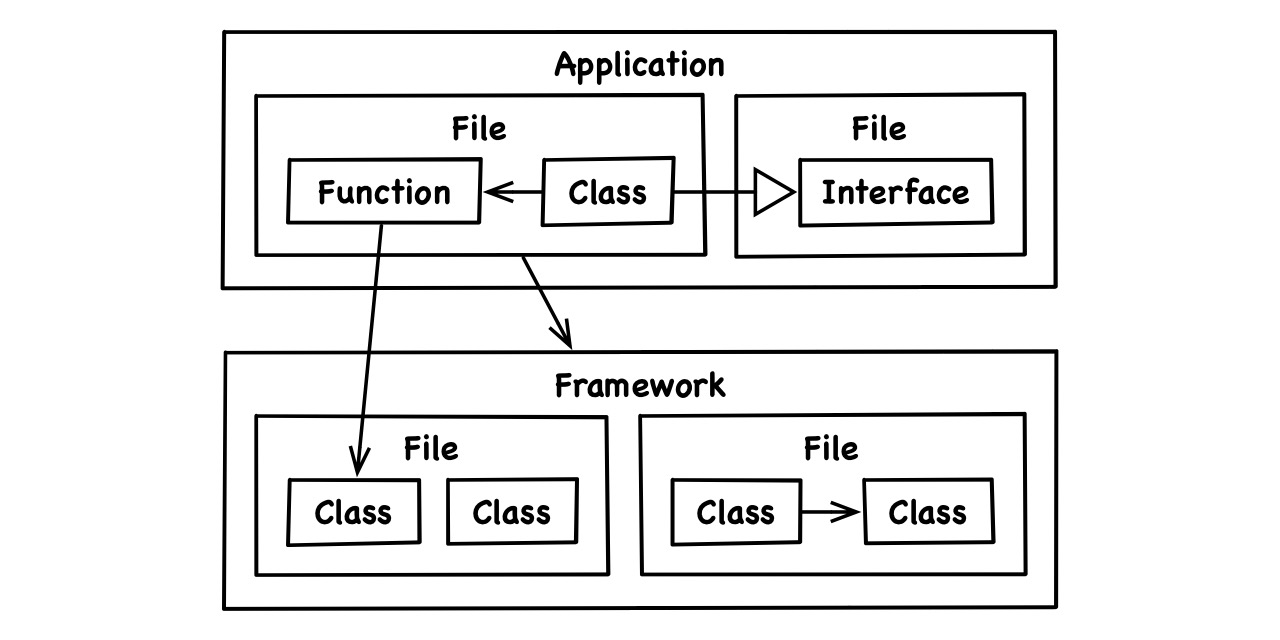
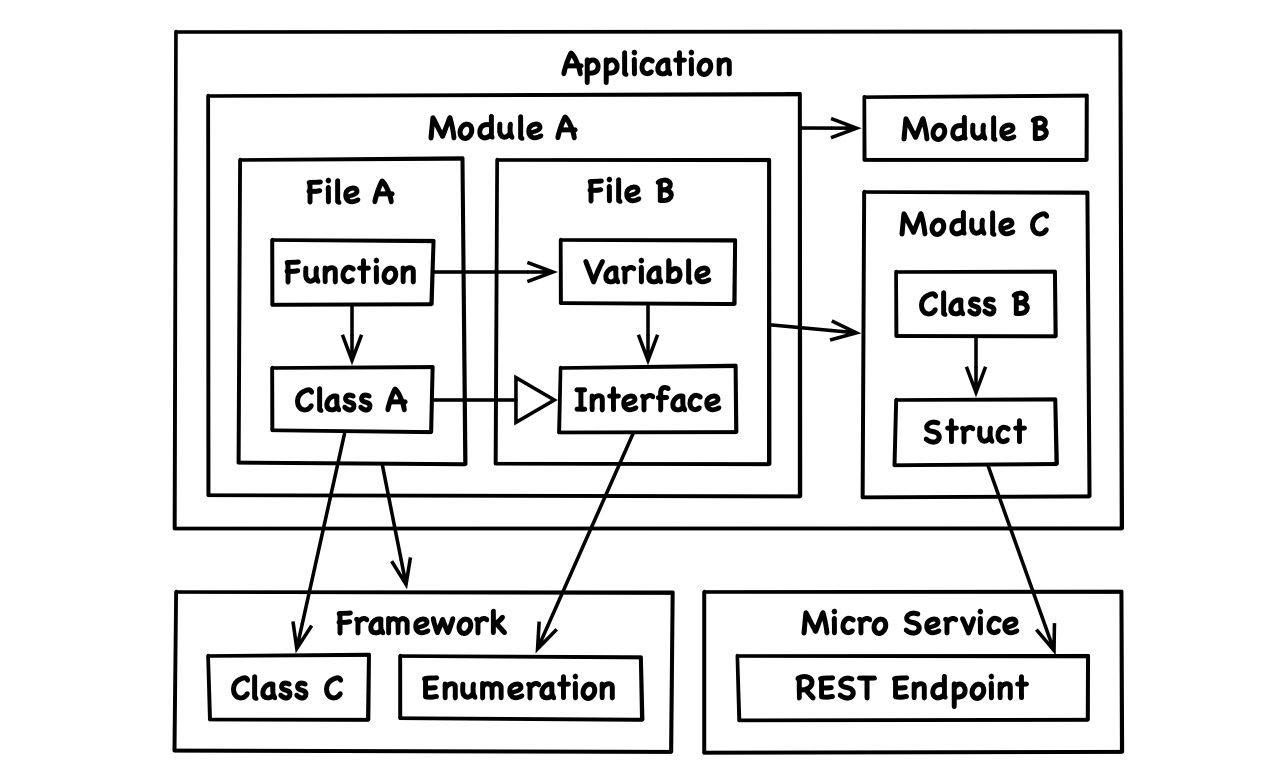
Edit post

Changed region(s): [[0.125, 0.0312, 0.875, 0.9688]]

diff --git a/_posts/2019-08-26-code-structure-is-determined-by-dependencies.md b/_posts/2019-08-26-code-structure-is-determined-by-dependencies.md
@@ -16,27 +16,29 @@ The natural laws of life relate to its structure. Structure is defined by *eleme
 
 The natural laws of code also relate to structure. So what are the elements and relationships in code?
 
-[Previously](https://www.flowtoolz.com/2019/08/25/code-represents-customer-value-and-technology.html), we explored the way code conveys meaning. Here, we examine the way it is structured. To that purpose, we put [tech- and value environment](https://www.flowtoolz.com/2019/08/25/code-represents-customer-value-and-technology.html) aside for a moment and focus instead on the actual source code, its organizational units and circuitry.
+Previously, we explored the way code conveys meaning. Here, we examine the way it is structured. To that purpose, we're gonna put [tech- and value environment](https://www.flowtoolz.com/2019/08/25/code-represents-customer-value-and-technology.html) aside and focus instead on the actual raw source code, its organizational units and circuitry.
 
-But who cares about code structure? Code is never an issue anyway, it's just those annoying people who want us to change the code all the time, right?
+And who cares about code structure? Code is never the issue anyway, it's just those annoying people who want us to change the code all the time, right?
 
-Certainly, functional and technical requirements are in flux. For a code base to survive, it must adapt to an ever changing world. In the evolution of organisms and code, flexibility is resilience and rigidity is death. In other words: Software is supposed to be soft. We rather have incorrect code that we can change easily than correct code that noone dares to touch anymore.
+Functional and technical requirements are in flux. For a code base to survive, it must adapt to an ever changing [environment](https://www.flowtoolz.com/2019/08/25/code-represents-customer-value-and-technology.html):
 
-<!-- todo: add diagram that shows how code depends on 2 environments (to pick up where the results of the previous post) and draws a parallel to an organism depending on its environment (to strengthen that metaphor as we've used it multiple times now) -->
+![](/blog-images/software-development/architecture/code-adapts-to-environment.jpg)
 
-And that's why structure is the central issue of complex yet evolving systems like software. It determines whether code meets the most essential requirement, which is *maintainability*, the ability to be changed. Without changes in software, there is no *software development*.
+In the evolution of organisms and code, flexibility is resilience and rigidity is death. And that's why structure is the central issue of complex yet evolving systems.
+
+Software is supposed to be soft. We rather have incorrect code that we can change easily than correct code that noone dares to touch anymore. How code is structured determines whether it meets the most essential requirement, which is *maintainability*, the ability to be changed. Without changes in software, there is no *software development*.
 
 ## Artifacts
 
-When we structure source code, we mostly think about classes and similar namespaces. Of course, code is structured at other scales as well. There are smaller language constructs contained in classes, like functions, properties and nested types. And there are larger scopes containing multiple classes, like architectural layers, micro services, libraries, frameworks, modules, packages and even just source files.
+When we structure source code, we often think about classes and similar namespaces. And there are many other types of organizational units, at many other scales: project, application, layer, micro service, module, framework, library, package, source file, type, interface, nested type, function, property, statement, variable and more.
 
-Those organizational units of code may widely differ in size, usage and meaning. But for the purpose of this analysis, we can regard them as pure *code artifacts*, pieces of code that are structurally distinct, irrespective of what they represent.
+Depending on context, those structural elements may widely differ in size, usage and exact technical definition. But for the purpose of this analysis, we regard them as *code artifacts*, pieces of code that are structurally distinct, irrespective of what they mean.
 
-A code artifact is typically composed of other smaller artifacts that we might call its *parts*. An artifact constitutes the *scope* of its parts. Examples would be a project containing modules, a module containing files, a file containing actual language contructs, and a function containing statements in its body. This nesting can go many levels deep, and we need it to structure our code:
+A code artifact is hierarchically composed of other smaller artifacts that we might call its *parts*. An artifact constitutes the *scope* of its parts:
 
 ![](/blog-images/software-development/architecture/code-artifact-hierarchy-no-dependence.jpg)
 
-Aside from the hierarchical composition of code artifacts, they also relate to each other in more interesting ways. Think of a class that derives from another, or of a function that calls a remote micro service:
+Aside from this scope-part relationship, code artifacts also relate to each other in more interesting ways. Think of a class that derives from an interface, or of a struct that calls a remote micro service:
 
 ![](/blog-images/software-development/architecture/code-artifact-hierarchy.jpg)
 
